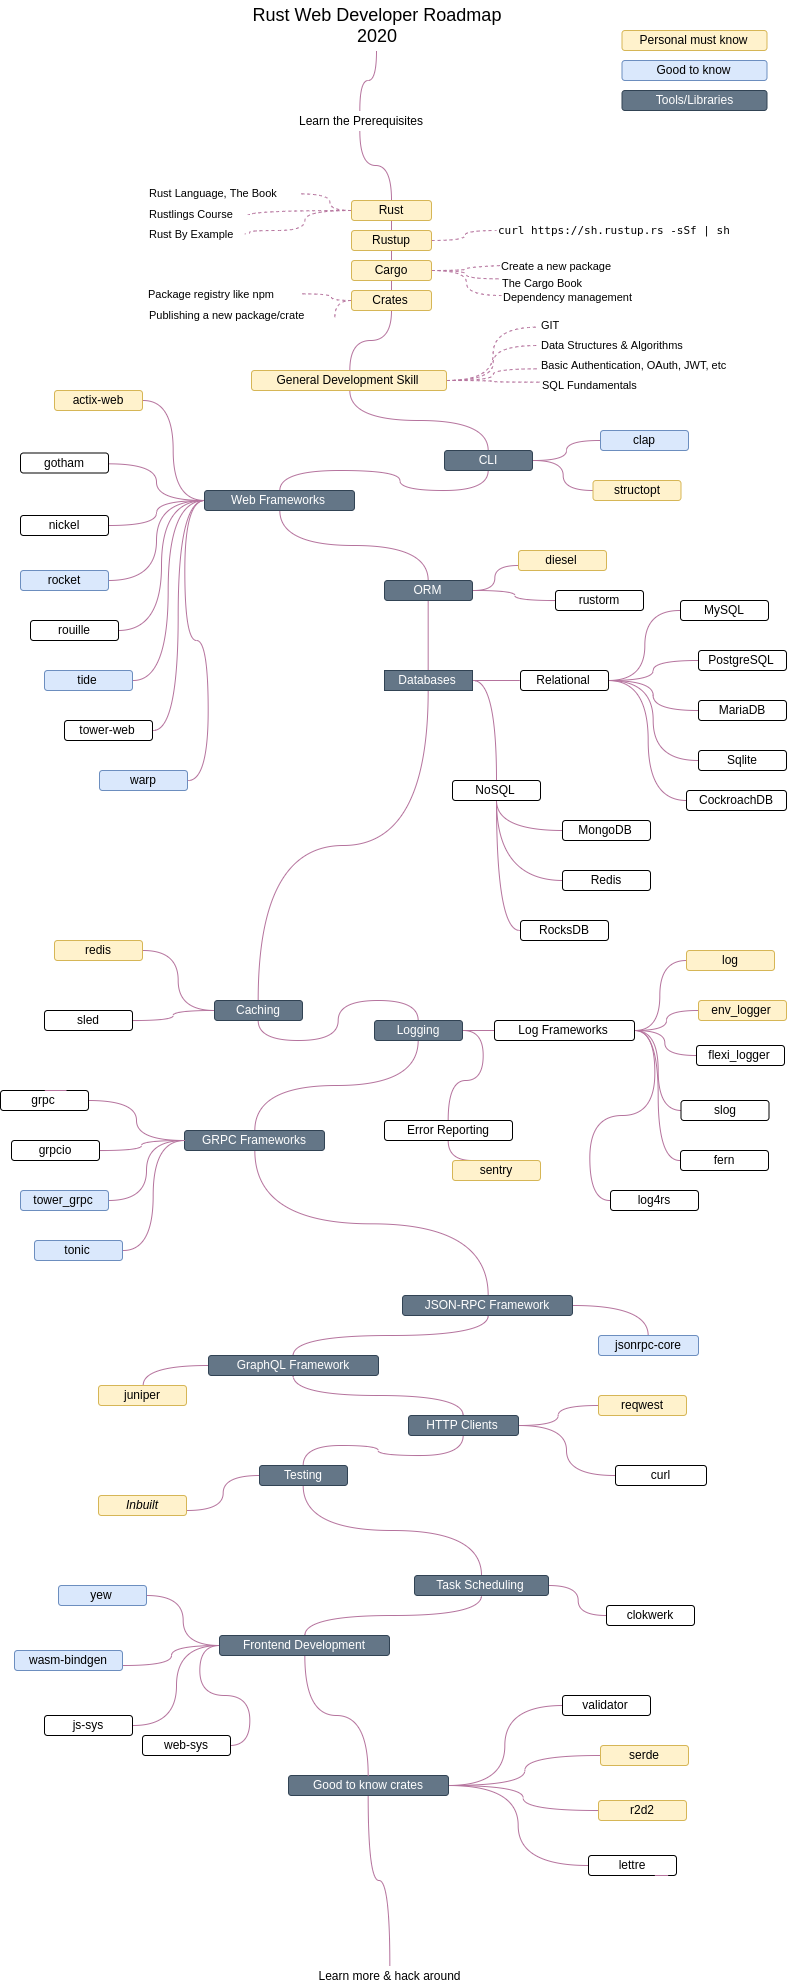
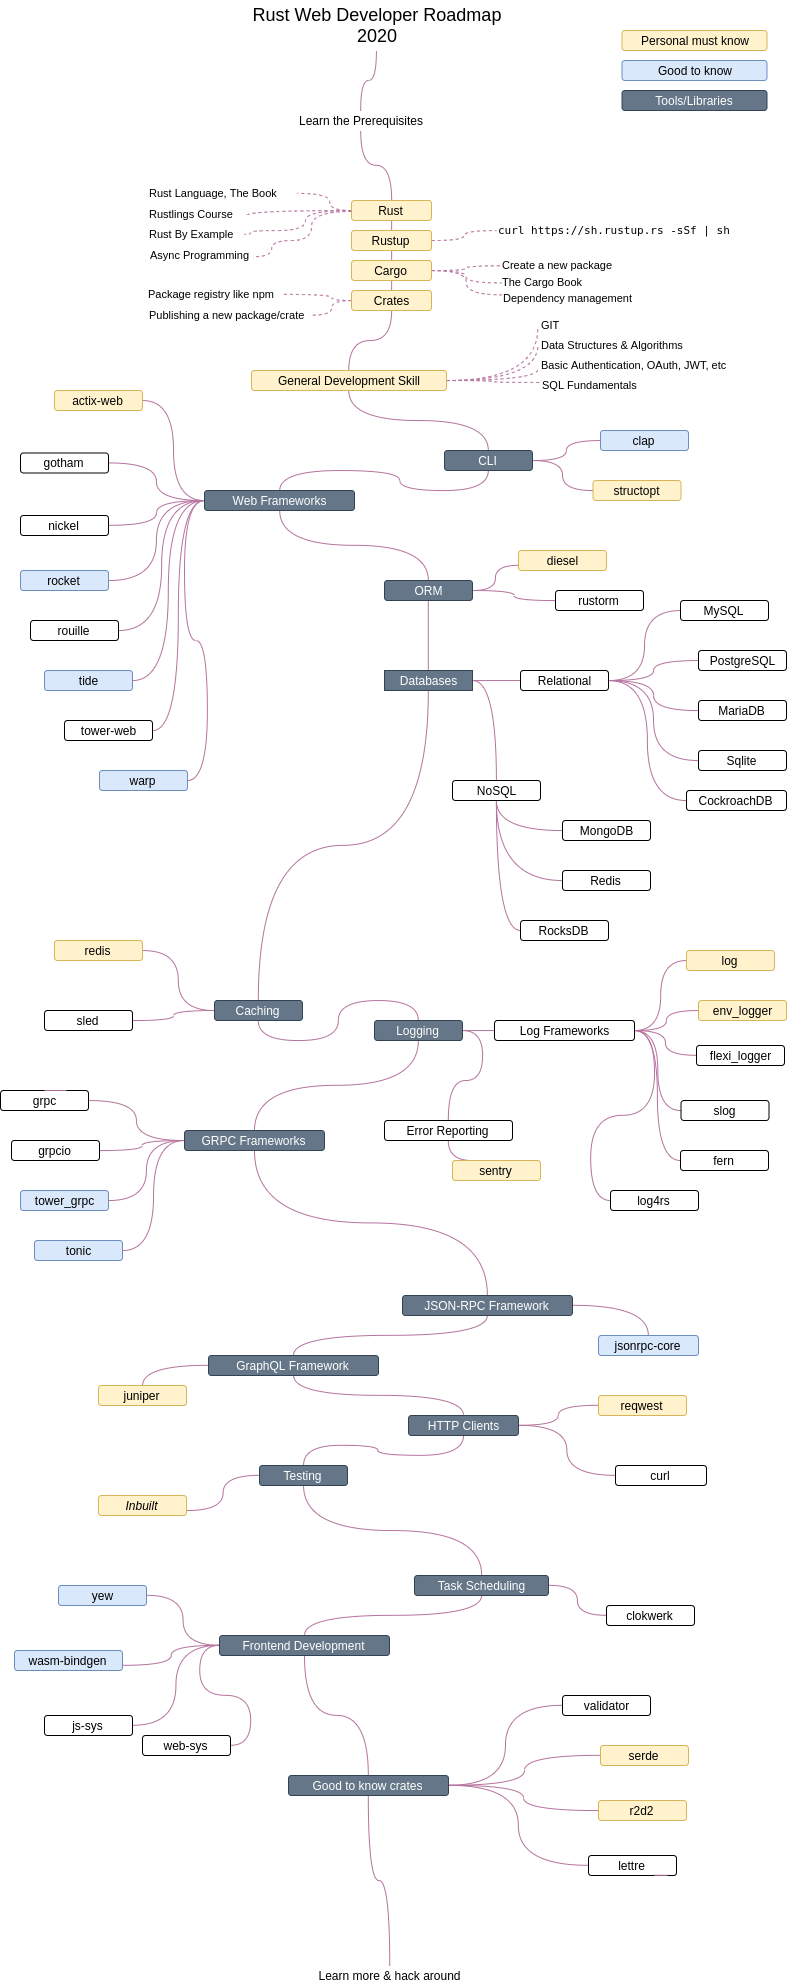
Starter on async programming to rust

diff --git a/README.md b/README.md
@@ -20,6 +20,7 @@ Below you can find a chart demonstrating the path you may take and the libraries
    - [The Book](https://doc.rust-lang.org/book/)
    - [Rustlings Course](https://github.com/rust-lang/rustlings/)
    - [Rust by Example](https://doc.rust-lang.org/stable/rust-by-example/)
+   - [Async Programming](https://rust-lang.github.io/async-book/)
    - [Rustup](https://www.rust-lang.org/tools/install)
    - [Cargo Book](https://doc.rust-lang.org/cargo/index.html)
    - [Crates.io](https://crates.io/)
